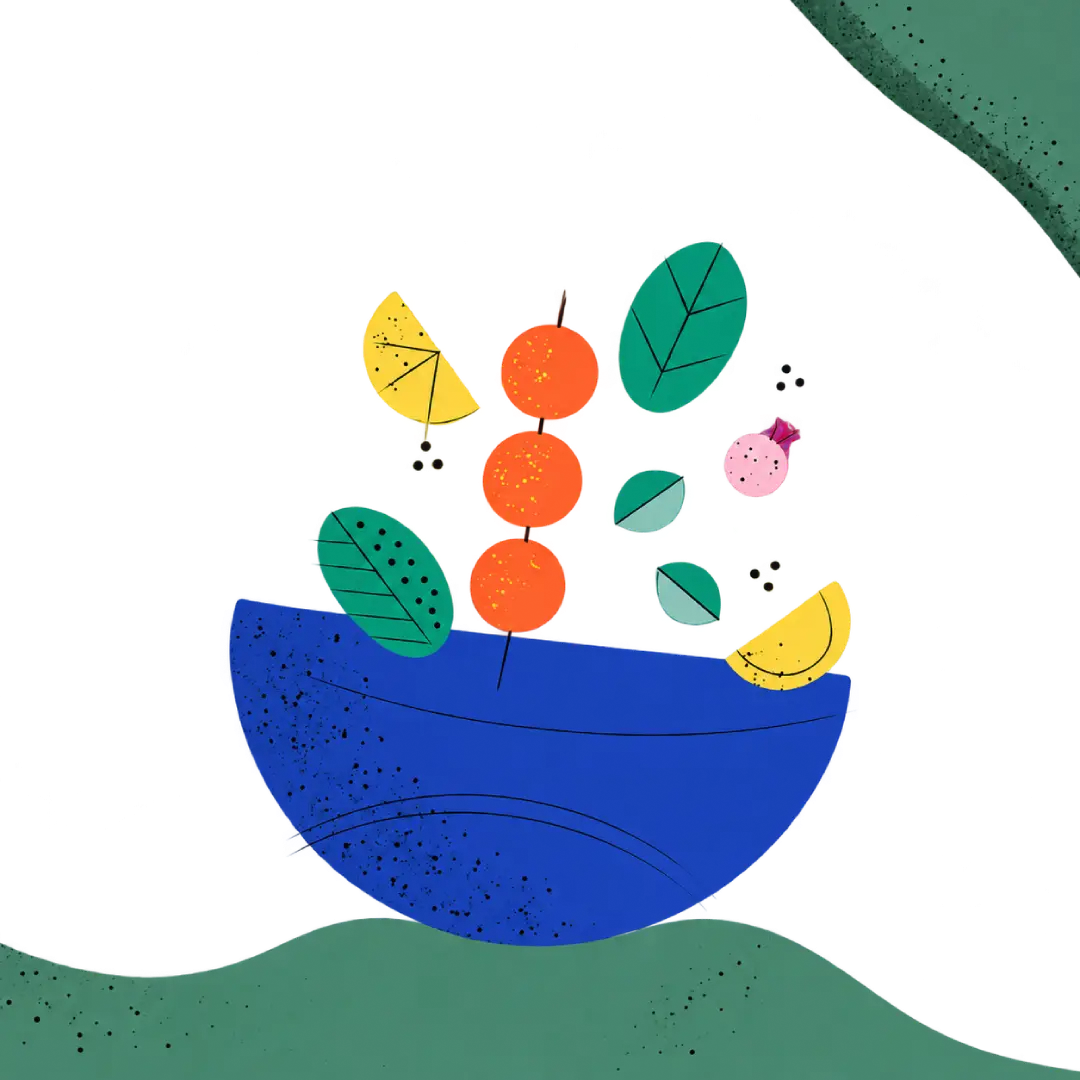
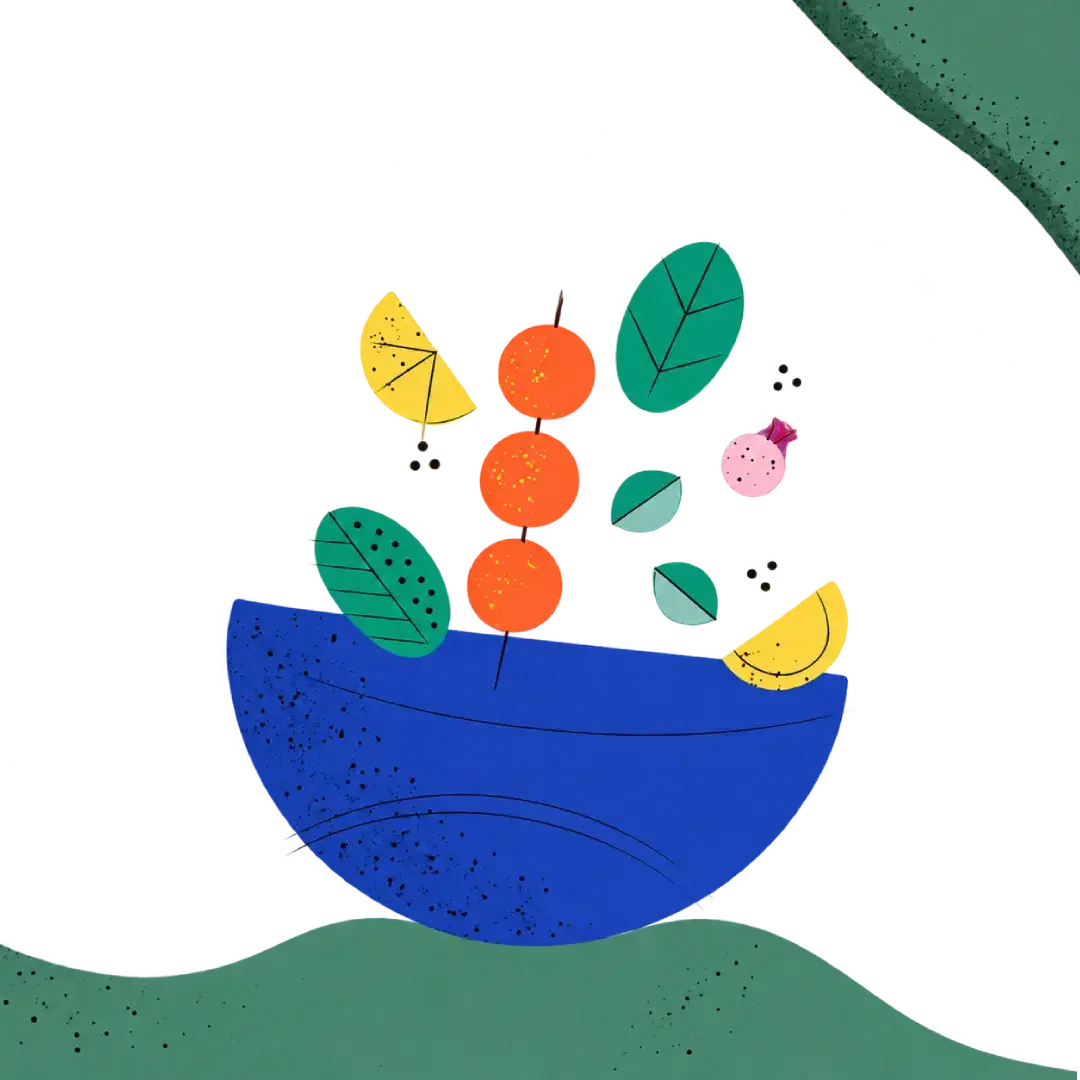
UI updates

diff --git a/lib/widgets/meal_image.dart b/lib/widgets/meal_image.dart
@@ -1,8 +1,11 @@
 import 'package:cached_network_image_ce/cached_network_image.dart';
 import 'package:flutter/material.dart';
+import 'package:flutter_animate/flutter_animate.dart';
 
+import '../constants/constants.dart';
 import '../constants/durations.dart';
 import '../services/cache_service.dart';
+import '../theme/extensions.dart';
 import '../util/dependencies.dart';
 
 class MealImage extends StatefulWidget {
@@ -10,7 +13,7 @@ class MealImage extends StatefulWidget {
   final BoxFit fit;
   final double height;
   final double width;
-  final Widget placeholderWidget;
+  final Widget? placeholderWidget;
   final Widget errorWidget;
 
   const MealImage({
@@ -18,9 +21,7 @@ class MealImage extends StatefulWidget {
     required this.height,
     required this.width,
     this.fit = BoxFit.cover,
-    this.placeholderWidget = const Center(
-      child: CircularProgressIndicator(),
-    ),
+    this.placeholderWidget,
     this.errorWidget = const SizedBox.shrink(),
     super.key,
   });
@@ -59,6 +60,27 @@ class MealImageState extends State<MealImage> {
     );
   }
 
+  Widget getPlaceholderWidget() => Animate(
+    onPlay: (controller) => controller.loop(
+      reverse: true,
+      min: 0.6,
+    ),
+    effects: const [
+      FadeEffect(
+        duration: BokunSpizeDurations.shimmer,
+        curve: Curves.easeIn,
+      ),
+    ],
+    child: Container(
+      height: widget.height,
+      width: widget.width,
+      decoration: BoxDecoration(
+        borderRadius: BorderRadius.circular(listTileRadius),
+        color: context.colors.listTileBackground.withValues(alpha: 0.5),
+      ),
+    ),
+  );
+
   @override
   Widget build(BuildContext context) => FutureBuilder<String?>(
     future: imageUrlFuture,
@@ -76,7 +98,7 @@ class MealImageState extends State<MealImage> {
           fit: widget.fit,
           height: widget.height,
           width: widget.width,
-          placeholder: (context, url) => widget.placeholderWidget,
+          placeholder: (context, url) => widget.placeholderWidget ?? getPlaceholderWidget(),
           errorBuilder: (context, error, stackTrace) => widget.errorWidget,
           fadeOutCurve: Curves.easeIn,
           fadeInDuration: BokunSpizeDurations.animation,
@@ -85,7 +107,7 @@ class MealImageState extends State<MealImage> {
         );
       }
 
-      return snapshot.connectionState == ConnectionState.done ? widget.errorWidget : widget.placeholderWidget;
+      return snapshot.connectionState == ConnectionState.done ? widget.errorWidget : widget.placeholderWidget ?? getPlaceholderWidget();
     },
   );
 }
